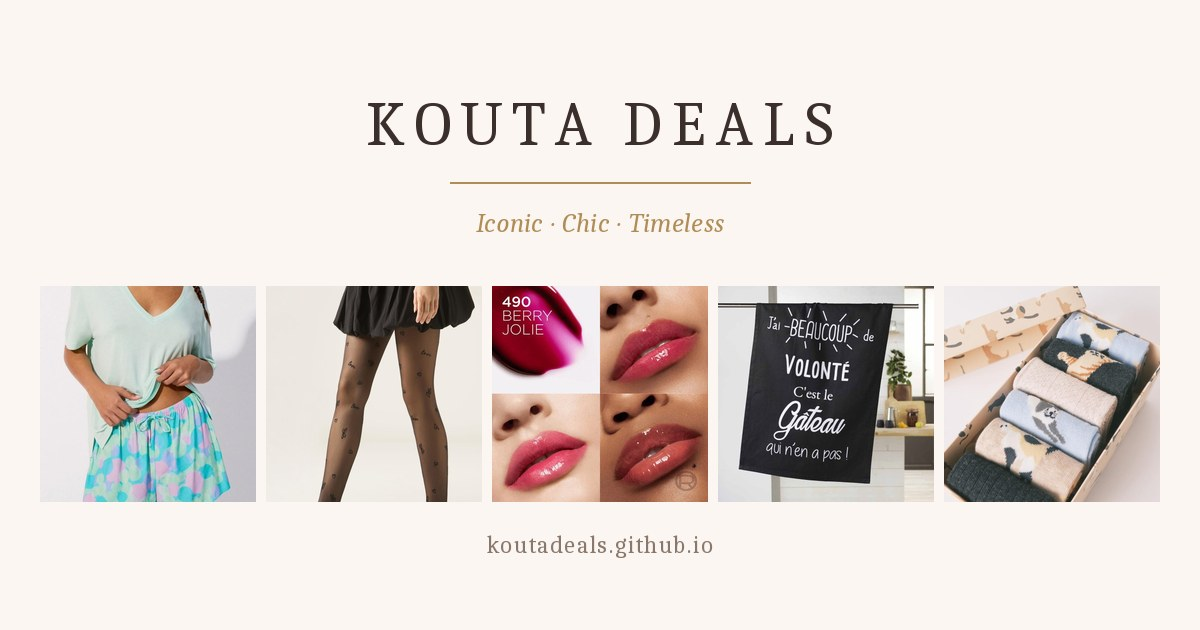
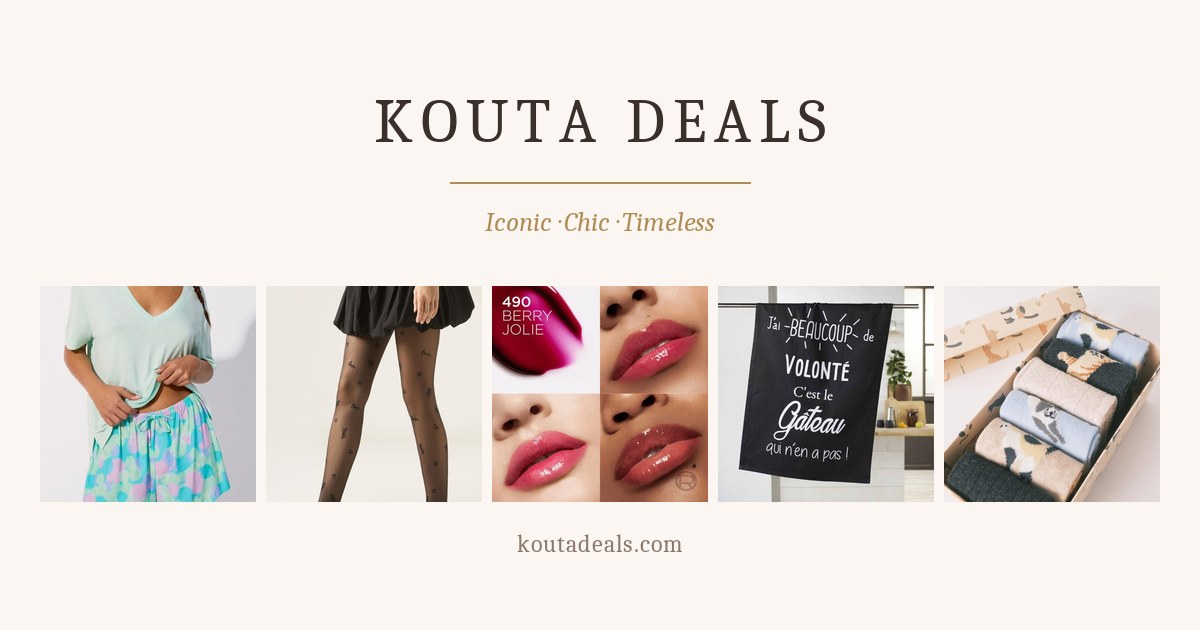
Add files via upload

diff --git a/index.html b/index.html
@@ -7,15 +7,15 @@
 <meta name="description" content="Kouta Deals — pyjamas, collants et linge de maison. Commandes par WhatsApp.">
 <meta name="theme-color" content="#FBF6F1">
 <meta name="format-detection" content="telephone=no">
-<link rel="canonical" href="https://koutadeals.github.io/">
+<link rel="canonical" href="https://koutadeals.com/">
 <meta property="og:type" content="website">
 <meta property="og:site_name" content="Kouta Deals">
 <meta property="og:title" content="Kouta Deals - Boutique">
 <meta property="og:description" content="Iconic · Chic · Timeless">
-<meta property="og:url" content="https://koutadeals.github.io/">
+<meta property="og:url" content="https://koutadeals.com/">
 <meta property="og:locale" content="fr_FR">
-<meta property="og:image" content="https://koutadeals.github.io/share-1.jpg">
-<meta property="og:image:secure_url" content="https://koutadeals.github.io/share-1.jpg">
+<meta property="og:image" content="https://koutadeals.com/share-1.jpg">
+<meta property="og:image:secure_url" content="https://koutadeals.com/share-1.jpg">
 <meta property="og:image:type" content="image/jpeg">
 <meta property="og:image:width" content="1200">
 <meta property="og:image:height" content="630">
@@ -23,11 +23,11 @@
 <meta name="twitter:card" content="summary_large_image">
 <meta name="twitter:title" content="Kouta Deals - Boutique">
 <meta name="twitter:description" content="Iconic · Chic · Timeless">
-<meta name="twitter:image" content="https://koutadeals.github.io/share-1.jpg">
-<link rel="image_src" href="https://koutadeals.github.io/share-1.jpg">
+<meta name="twitter:image" content="https://koutadeals.com/share-1.jpg">
+<link rel="image_src" href="https://koutadeals.com/share-1.jpg">
 <meta itemprop="name" content="Kouta Deals - Boutique">
 <meta itemprop="description" content="Iconic · Chic · Timeless">
-<meta itemprop="image" content="https://koutadeals.github.io/share-1.jpg">
+<meta itemprop="image" content="https://koutadeals.com/share-1.jpg">
 <style>
 /* three views in one page: category menu, a category's products, the basket.
    Views are toggled by the URL hash so the phone back button works. */
@@ -252,7 +252,7 @@ footer .num a:hover { color:var(--gold); border-bottom-color:var(--gold); }
   <span class="tgo" aria-hidden="true">&rsaquo;</span>
 </a></nav>
     <div class="share">
-      <a class="sharebtn" href="https://wa.me/?text=https%3A%2F%2Fkoutadeals.github.io" target="_blank" rel="noopener">
+      <a class="sharebtn" href="https://wa.me/?text=https%3A%2F%2Fkoutadeals.com" target="_blank" rel="noopener">
         <svg viewBox="0 0 24 24" aria-hidden="true"><path d="M12 2a10 10 0 0 0-8.6 15l-1.3 4.8 4.9-1.3A10 10 0 1 0 12 2zm5.8 14.2c-.2.7-1.4 1.3-2 1.4-.5.1-1.1.1-1.8-.1-.4-.1-1-.3-1.7-.6-3-1.3-4.9-4.3-5-4.5-.2-.2-1.2-1.6-1.2-3s.7-2.1 1-2.4c.2-.3.6-.4.8-.4h.6c.2 0 .4 0 .7.5l.9 2.2c.1.2.1.4 0 .6l-.4.6-.3.3c-.1.1-.3.3-.1.6.2.3.8 1.3 1.7 2.1 1.1 1 2.1 1.3 2.4 1.5.3.1.5.1.7-.1l.9-1.1c.2-.2.4-.2.6-.1l2.1 1c.3.1.5.2.5.4.1.1.1.6-.1 1.1z"/></svg>
         Partager avec vos amis
       </a>
